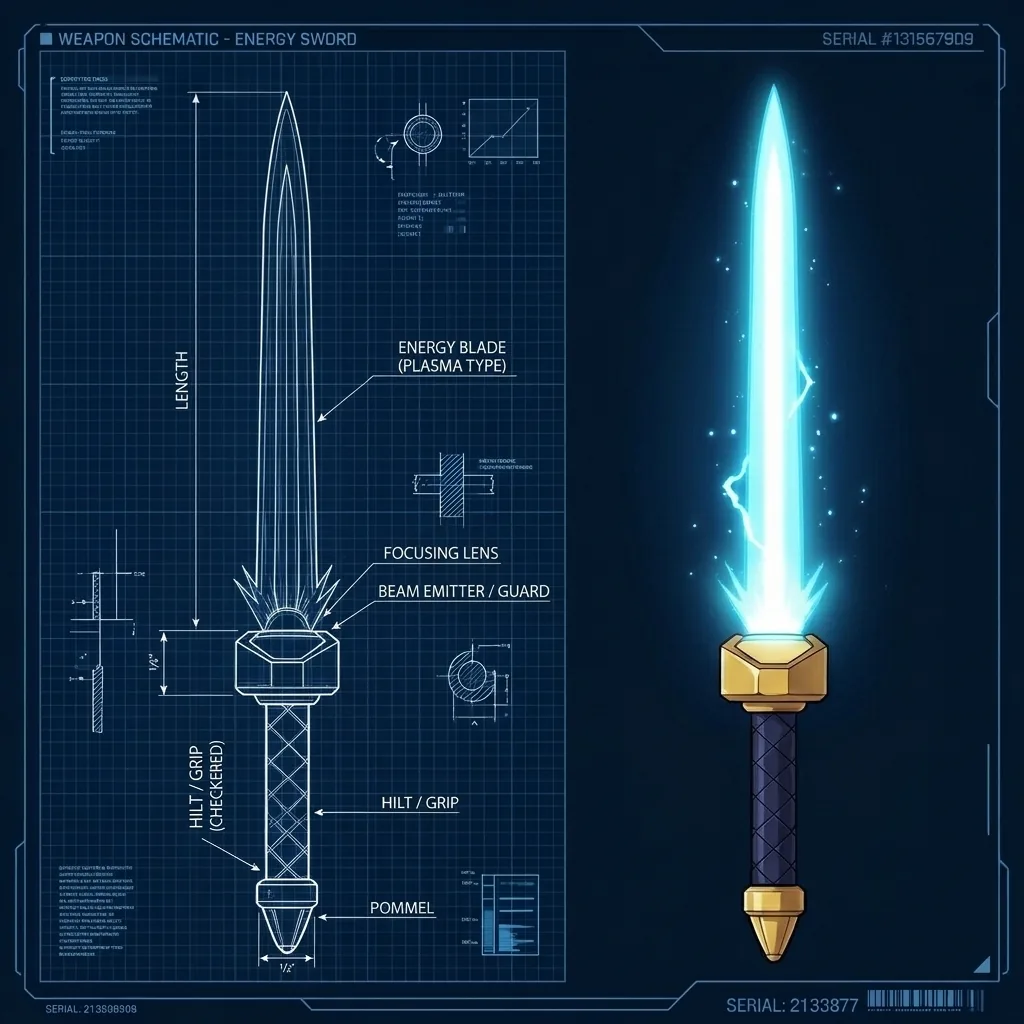
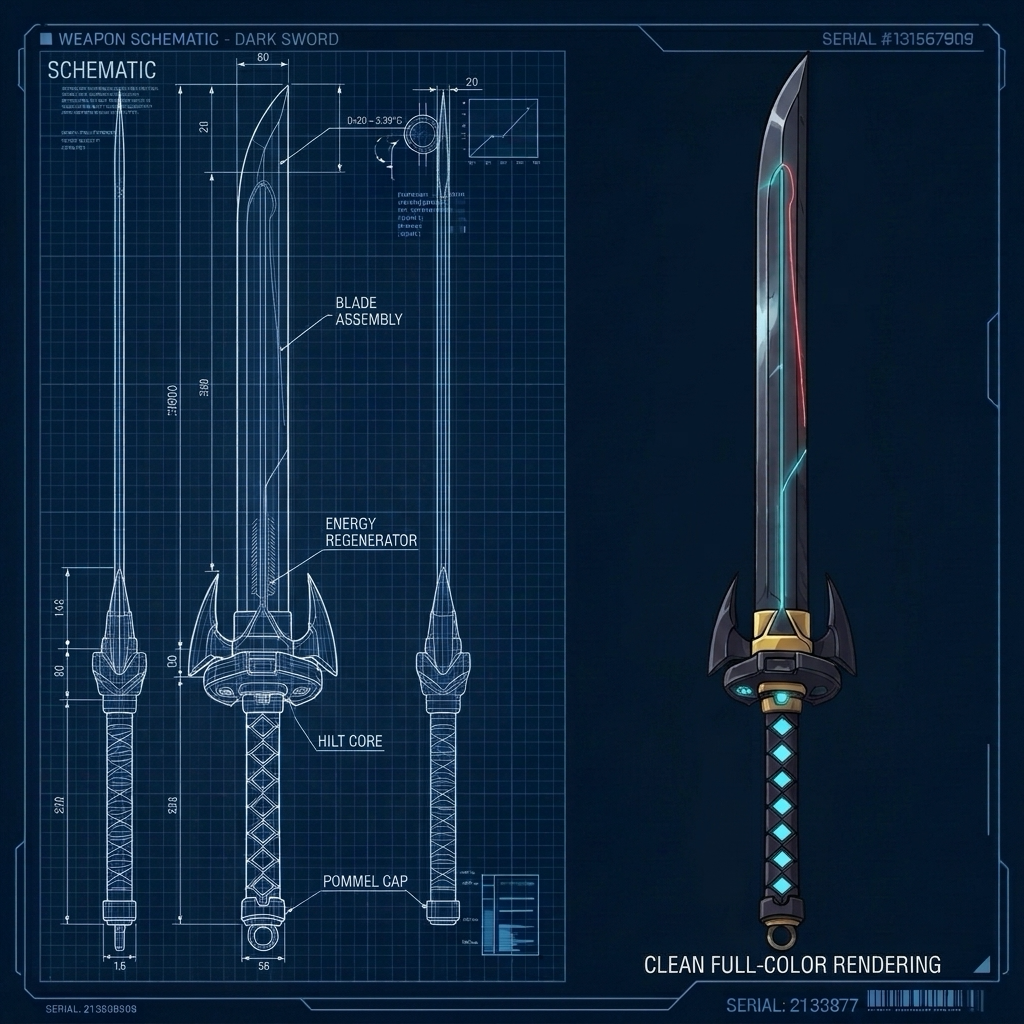
MMX9: correct Zero weapon from Supersonic Woodpecker
The previous image showed Zero's original saber. The iCloud source is updated
too, and mmx9_assets.py now skips "_old …" weapon files.

Claude-Session: https://claude.ai/code/session_019zdtxb7NsC4peui9eBTnWL

Changed region(s): [[0.0312, 0.0312, 0.5312, 0.9688], [0.625, 0.0625, 0.9062, 0.9688], [0.4375, 0.0625, 0.4688, 0.0938]]

diff --git a/tools/mmx9_assets.py b/tools/mmx9_assets.py
@@ -189,6 +189,8 @@ def main():
         for user in dirs(wdir):
             u = form_slug(nfc(user.name))
             for f in sorted(images(user), key=lambda p: p.stat().st_mtime):
+                if f.name.startswith('_'):   # "_old …": kept in the folder, not published
+                    continue
                 w = form_slug(nfc(f.stem))
                 manifest['weapons'].setdefault(u, {})[w] = rel(save(f, OUT / f'weapons/{u}/{w}.webp', 'universe'))
                 print(f'weapon {u:6} {w:20} <- {f.name}')
